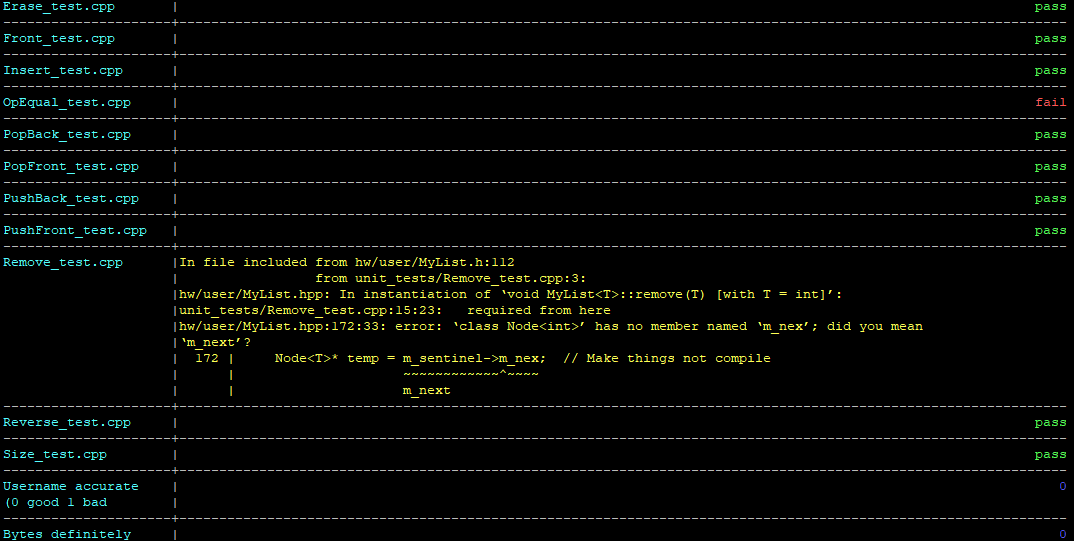
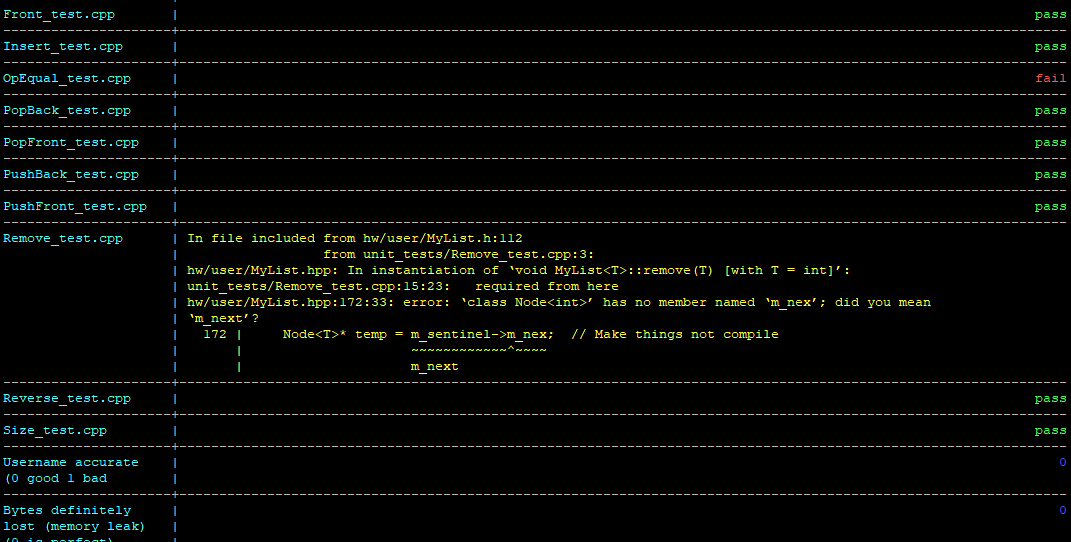
Fix minor formatting bug
Fixed a minor formatting bug.

Changed region(s): [[0.0, 0.0, 1.0, 1.0], [0.986, 0.8872, 1.0, 0.9464], [0.986, 0.976, 1.0, 1.0]]

diff --git a/show_results.py b/show_results.py
@@ -99,10 +99,10 @@ if __name__ == "__main__":
             tl = test_name_lines[j] if j < len(test_name_lines) else ''
             rl = result_name_lines[j] if j < len(result_name_lines) else ''
             if len(result_name_lines) > 1:
-                aligned = rl.ljust(RESULT_COLUMN_WIDTH + EXTRA_WIDTH)
+                aligned = rl.ljust(RESULT_COLUMN_WIDTH)
             else:
-                aligned = rl.rjust(RESULT_COLUMN_WIDTH + EXTRA_WIDTH)
+                aligned = rl.rjust(RESULT_COLUMN_WIDTH)
             print(
                 bcolors.OKCYAN + tl.ljust(NAME_COLUMN_WIDTH + EXTRA_WIDTH) + bcolors.ENDC,
-                color + aligned, sep='|')
+                color + aligned, sep='|' + ' ' * EXTRA_WIDTH)
         print(bcolors.ENDC + e)
